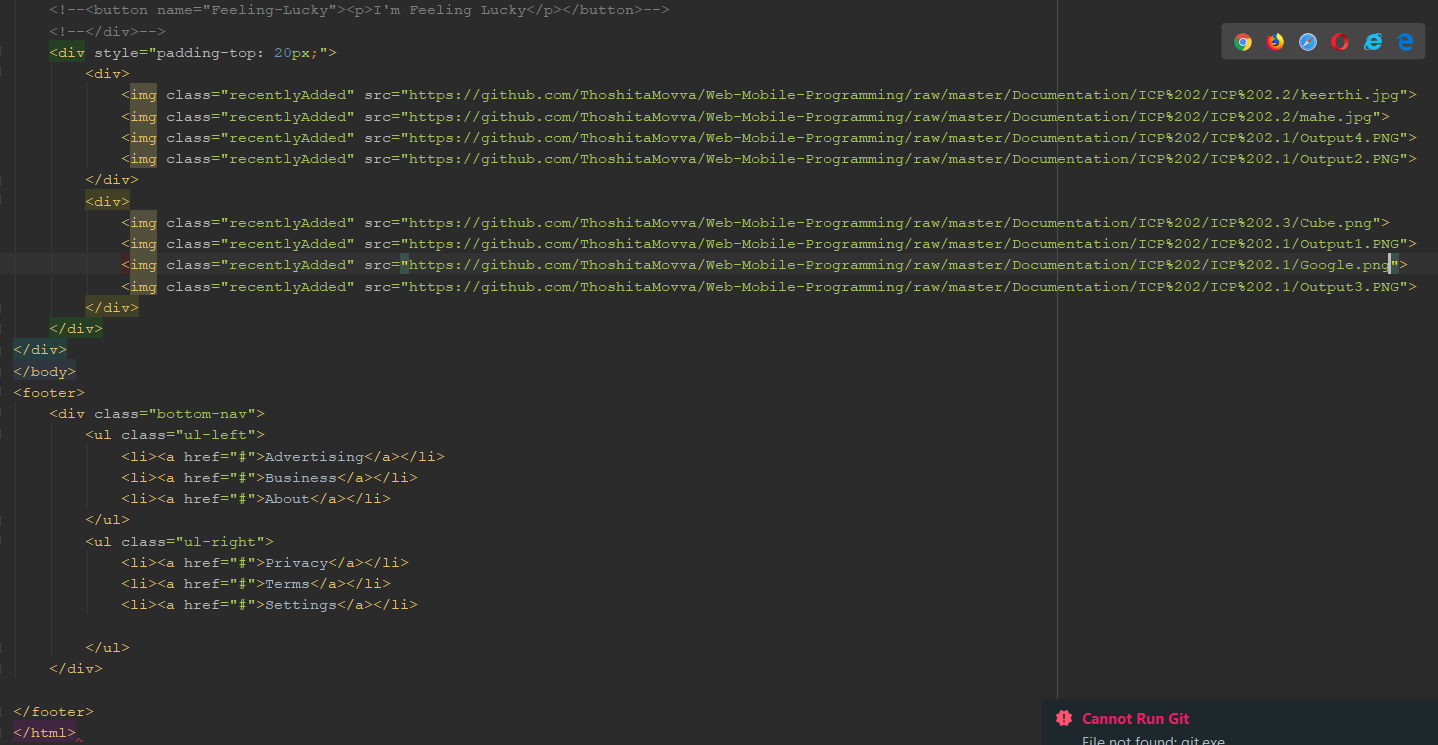
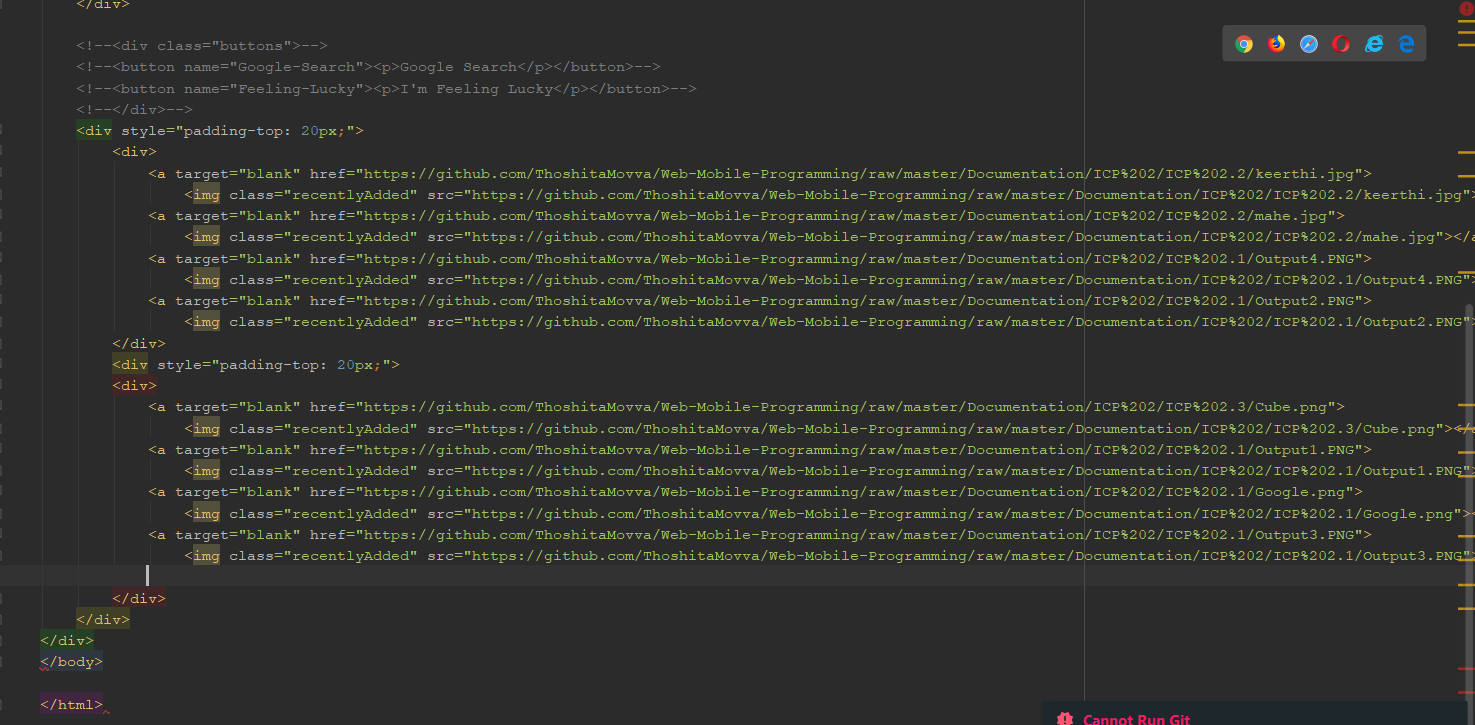
ICP 2

diff --git a/Source/ICP 2/ICP CSS 2.2.html b/Source/ICP 2/ICP CSS 2.2.html
@@ -29,17 +29,26 @@
         <!--</div>-->
         <div style="padding-top: 20px;">
             <div>
-                <img class="recentlyAdded" src="https://github.com/ThoshitaMovva/Web-Mobile-Programming/raw/master/Documentation/ICP%202/ICP%202.2/keerthi.jpg">
-                <img class="recentlyAdded" src="https://github.com/ThoshitaMovva/Web-Mobile-Programming/raw/master/Documentation/ICP%202/ICP%202.2/mahe.jpg">
-                <img class="recentlyAdded" src="https://github.com/ThoshitaMovva/Web-Mobile-Programming/raw/master/Documentation/ICP%202/ICP%202.1/Output4.PNG">
-                <img class="recentlyAdded" src="https://github.com/ThoshitaMovva/Web-Mobile-Programming/raw/master/Documentation/ICP%202/ICP%202.1/Output2.PNG">
+                <a target="blank" href="https://github.com/ThoshitaMovva/Web-Mobile-Programming/raw/master/Documentation/ICP%202/ICP%202.2/keerthi.jpg">
+                    <img class="recentlyAdded" src="https://github.com/ThoshitaMovva/Web-Mobile-Programming/raw/master/Documentation/ICP%202/ICP%202.2/keerthi.jpg"></a>
+                <a target="blank" href="https://github.com/ThoshitaMovva/Web-Mobile-Programming/raw/master/Documentation/ICP%202/ICP%202.2/mahe.jpg">
+                    <img class="recentlyAdded" src="https://github.com/ThoshitaMovva/Web-Mobile-Programming/raw/master/Documentation/ICP%202/ICP%202.2/mahe.jpg"></a>
+                <a target="blank" href="https://github.com/ThoshitaMovva/Web-Mobile-Programming/raw/master/Documentation/ICP%202/ICP%202.1/Output4.PNG">
+                    <img class="recentlyAdded" src="https://github.com/ThoshitaMovva/Web-Mobile-Programming/raw/master/Documentation/ICP%202/ICP%202.1/Output4.PNG"></a>
+                <a target="blank" href="https://github.com/ThoshitaMovva/Web-Mobile-Programming/raw/master/Documentation/ICP%202/ICP%202.1/Output2.PNG">
+                    <img class="recentlyAdded" src="https://github.com/ThoshitaMovva/Web-Mobile-Programming/raw/master/Documentation/ICP%202/ICP%202.1/Output2.PNG"></a>
             </div>
             <div style="padding-top: 20px;">
             <div>
-                <img class="recentlyAdded" src="https://github.com/ThoshitaMovva/Web-Mobile-Programming/raw/master/Documentation/ICP%202/ICP%202.3/Cube.png">
-                <img class="recentlyAdded" src="https://github.com/ThoshitaMovva/Web-Mobile-Programming/raw/master/Documentation/ICP%202/ICP%202.1/Output1.PNG">
-                <img class="recentlyAdded" src="https://github.com/ThoshitaMovva/Web-Mobile-Programming/raw/master/Documentation/ICP%202/ICP%202.1/Google.png">
-                <img class="recentlyAdded" src="https://github.com/ThoshitaMovva/Web-Mobile-Programming/raw/master/Documentation/ICP%202/ICP%202.1/Output3.PNG">
+                <a target="blank" href="https://github.com/ThoshitaMovva/Web-Mobile-Programming/raw/master/Documentation/ICP%202/ICP%202.3/Cube.png">
+                    <img class="recentlyAdded" src="https://github.com/ThoshitaMovva/Web-Mobile-Programming/raw/master/Documentation/ICP%202/ICP%202.3/Cube.png"></a>
+                <a target="blank" href="https://github.com/ThoshitaMovva/Web-Mobile-Programming/raw/master/Documentation/ICP%202/ICP%202.1/Output1.PNG">
+                    <img class="recentlyAdded" src="https://github.com/ThoshitaMovva/Web-Mobile-Programming/raw/master/Documentation/ICP%202/ICP%202.1/Output1.PNG"></a>
+                <a target="blank" href="https://github.com/ThoshitaMovva/Web-Mobile-Programming/raw/master/Documentation/ICP%202/ICP%202.1/Google.png">
+                    <img class="recentlyAdded" src="https://github.com/ThoshitaMovva/Web-Mobile-Programming/raw/master/Documentation/ICP%202/ICP%202.1/Google.png"></a>
+                <a target="blank" href="https://github.com/ThoshitaMovva/Web-Mobile-Programming/raw/master/Documentation/ICP%202/ICP%202.1/Output3.PNG">
+                    <img class="recentlyAdded" src="https://github.com/ThoshitaMovva/Web-Mobile-Programming/raw/master/Documentation/ICP%202/ICP%202.1/Output3.PNG"></a>
+                
             </div>
         </div>
     </div>

diff --git a/Source/ICP 2/ICP HTML 2.1.html b/Source/ICP 2/ICP HTML 2.1.html
@@ -6,17 +6,20 @@
     <link href="style.css" type="text/css" rel="stylesheet">
 </head>
 <body>
+<!--Div tag-->
 <div class="heading">
     <div style="background-color:lightblue">
+        <!--Heading-->
     <h1>In Class Programming 2 - Web/Mobile Programming</h1>
     <h2>Name: Thoshita Movva </h2>
-
+        <!--Button-->
         <button type="button" onclick="alert('Hi! How are you doing!')">Click Me!</button>
 
         <h2>Class Id: 23</h2>
     </div>
 </div>
 <div class="container">
+    <!--Paragraph-->
     <p>This page is created as a part of ICP 2 task 1.</p>
     <h2>HTML</h2>
     <p><em>HTML</em> stands for <span class="highlight">Hyper Text Markup Language</span>, which is the most widely used language on Web to develop web pages.
@@ -32,6 +35,7 @@
 <div class="container">
     <h3>Hello World using HTML</h3>
     <p>Just to give you a little excitement about HTML, I'm going to give you a small conventional HTML Hello World program</p>
+    <!--href attribute (Hyperlink) which links from one page to other-->
     <a href="https://raw.githubusercontent.com/ThoshitaMovva/Web-Mobile-Programming/master/Documentation/ICP%202/ICP%202.1/2.1.PNG">Click to view Program</a>
     <!--a target="_blank" href="https://raw.githubusercontent.com/ThoshitaMovva/Web-Mobile-Programming/master/Documentation/ICP%202/ICP%202.1/2.1.PNG"-->
         <!--img style="width:700px; height: 400px" src="https://raw.githubusercontent.com/ThoshitaMovva/Web-Mobile-Programming/master/Documentation/ICP%202/ICP%202.1/2.1.PNG"/-->

diff --git a/Source/ICP 2/style.css b/Source/ICP 2/style.css
@@ -25,5 +25,5 @@ body {
     display: inline-block;
     width: 70px;
     height: 70px;
-    margin: 10px;
+    margin: 2px;
 }
